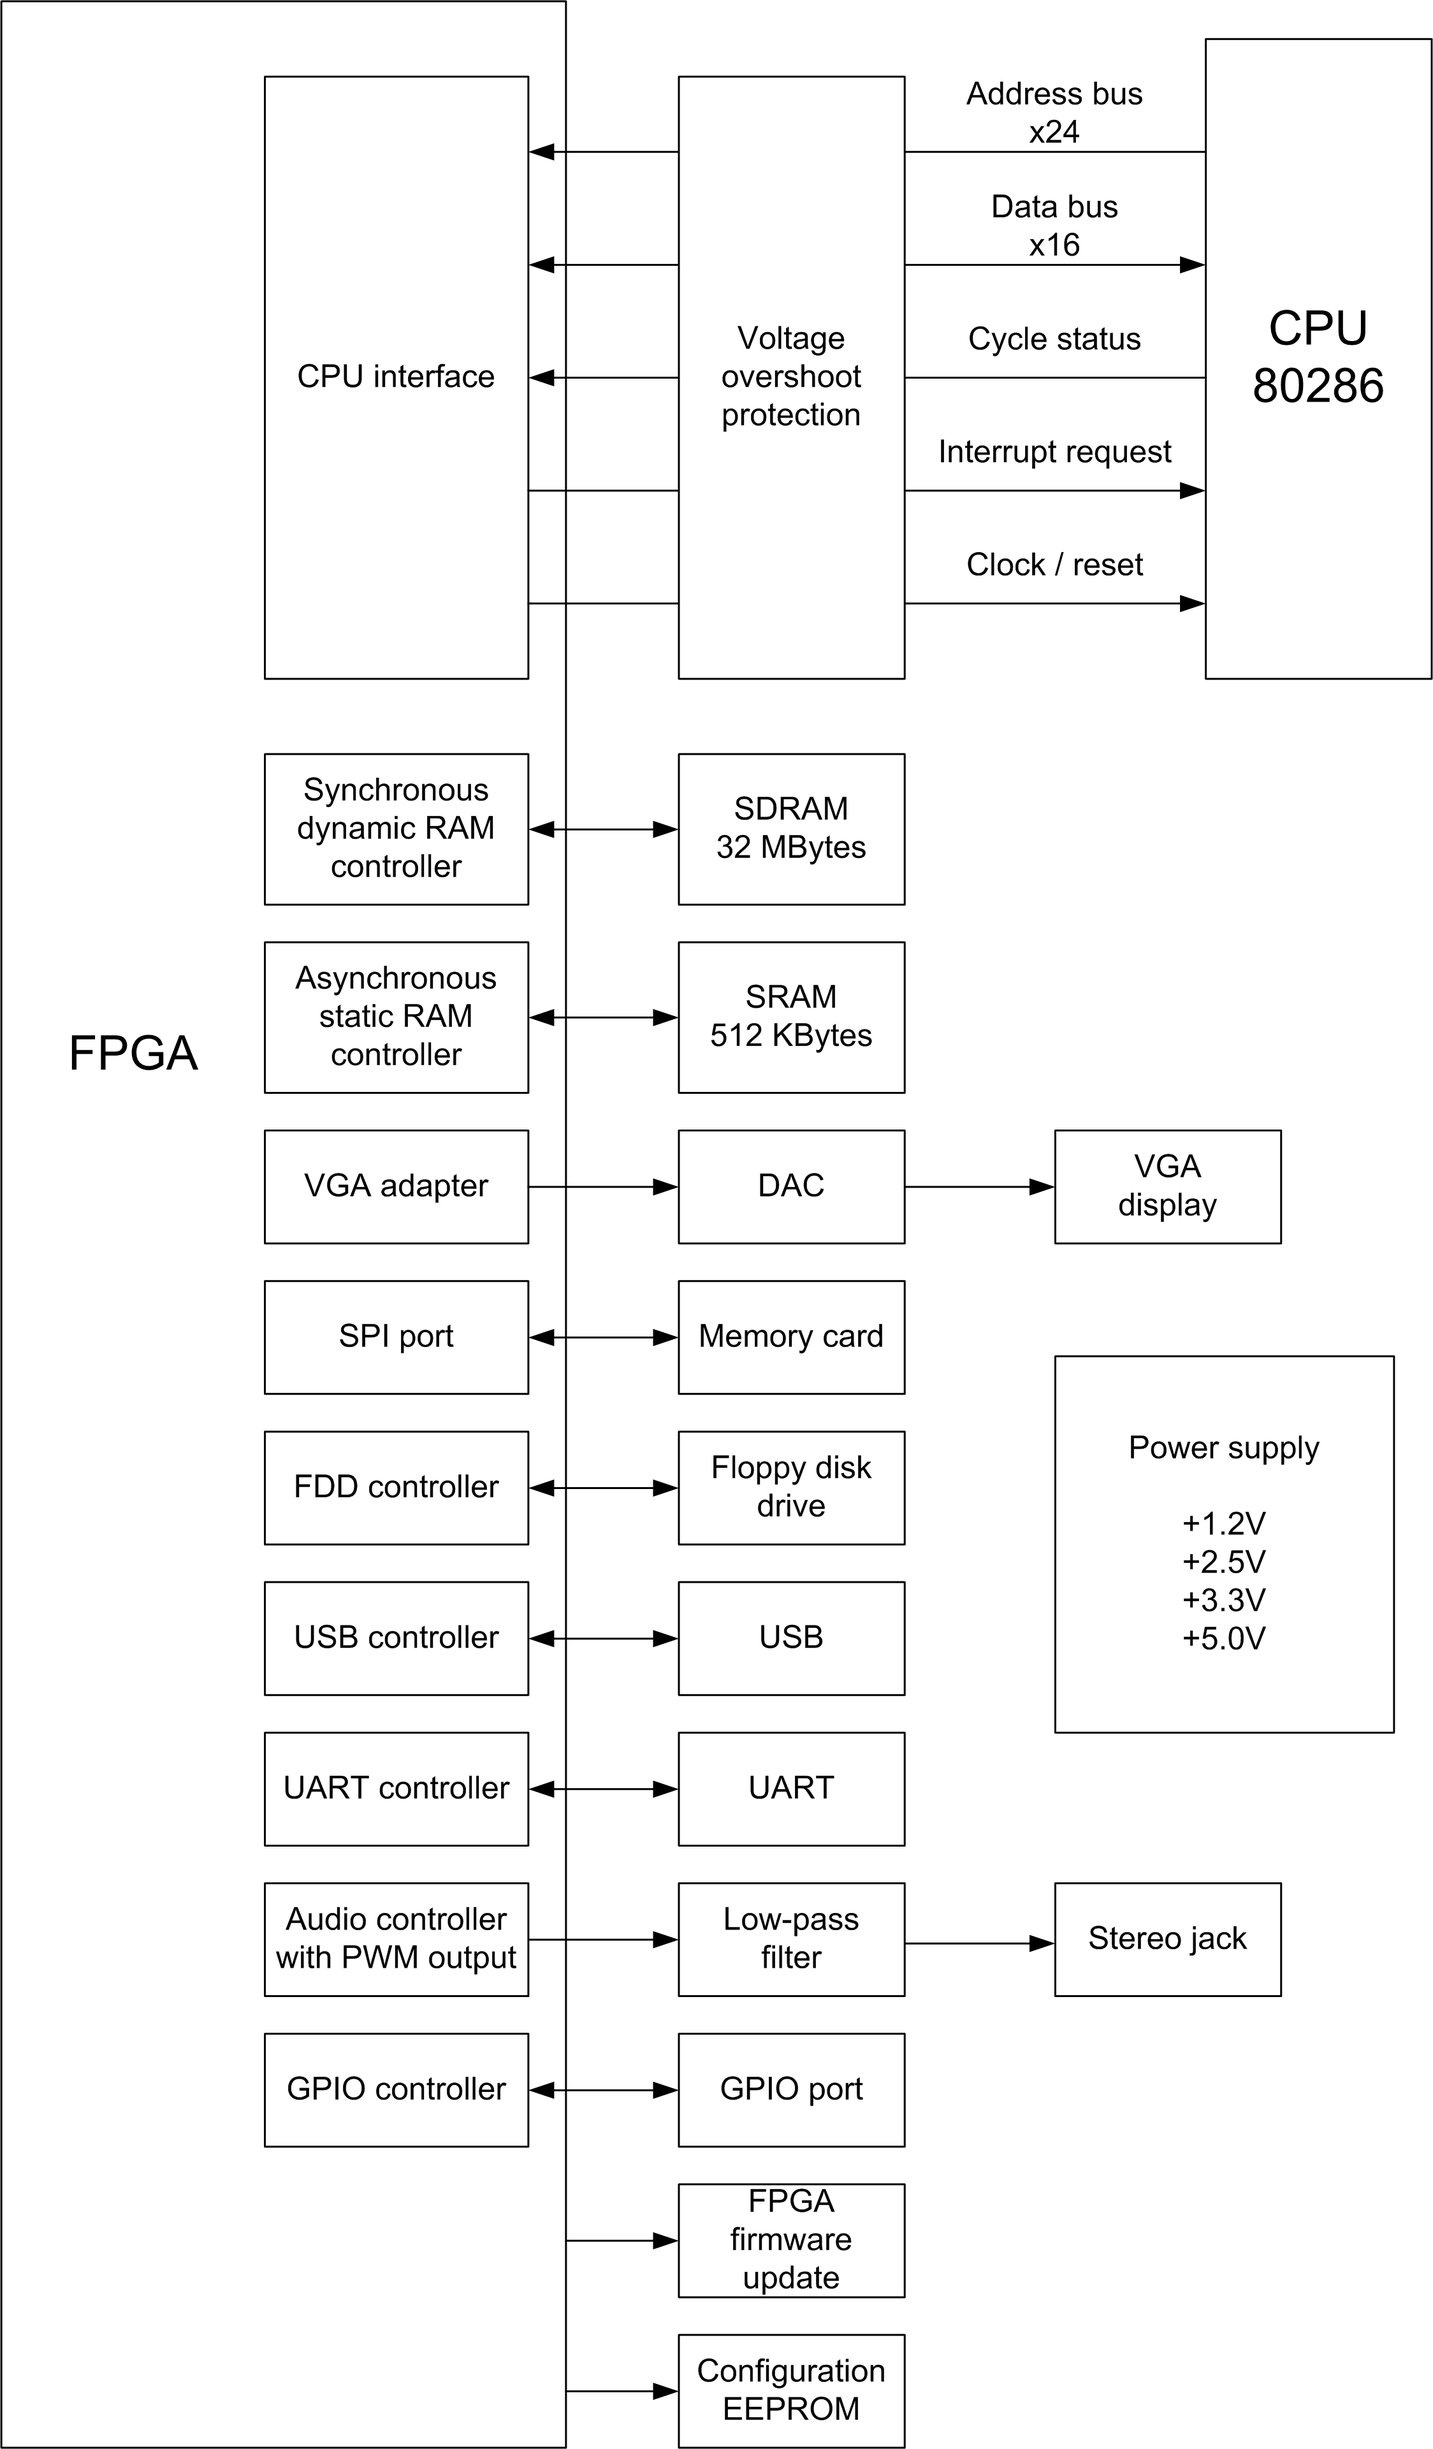
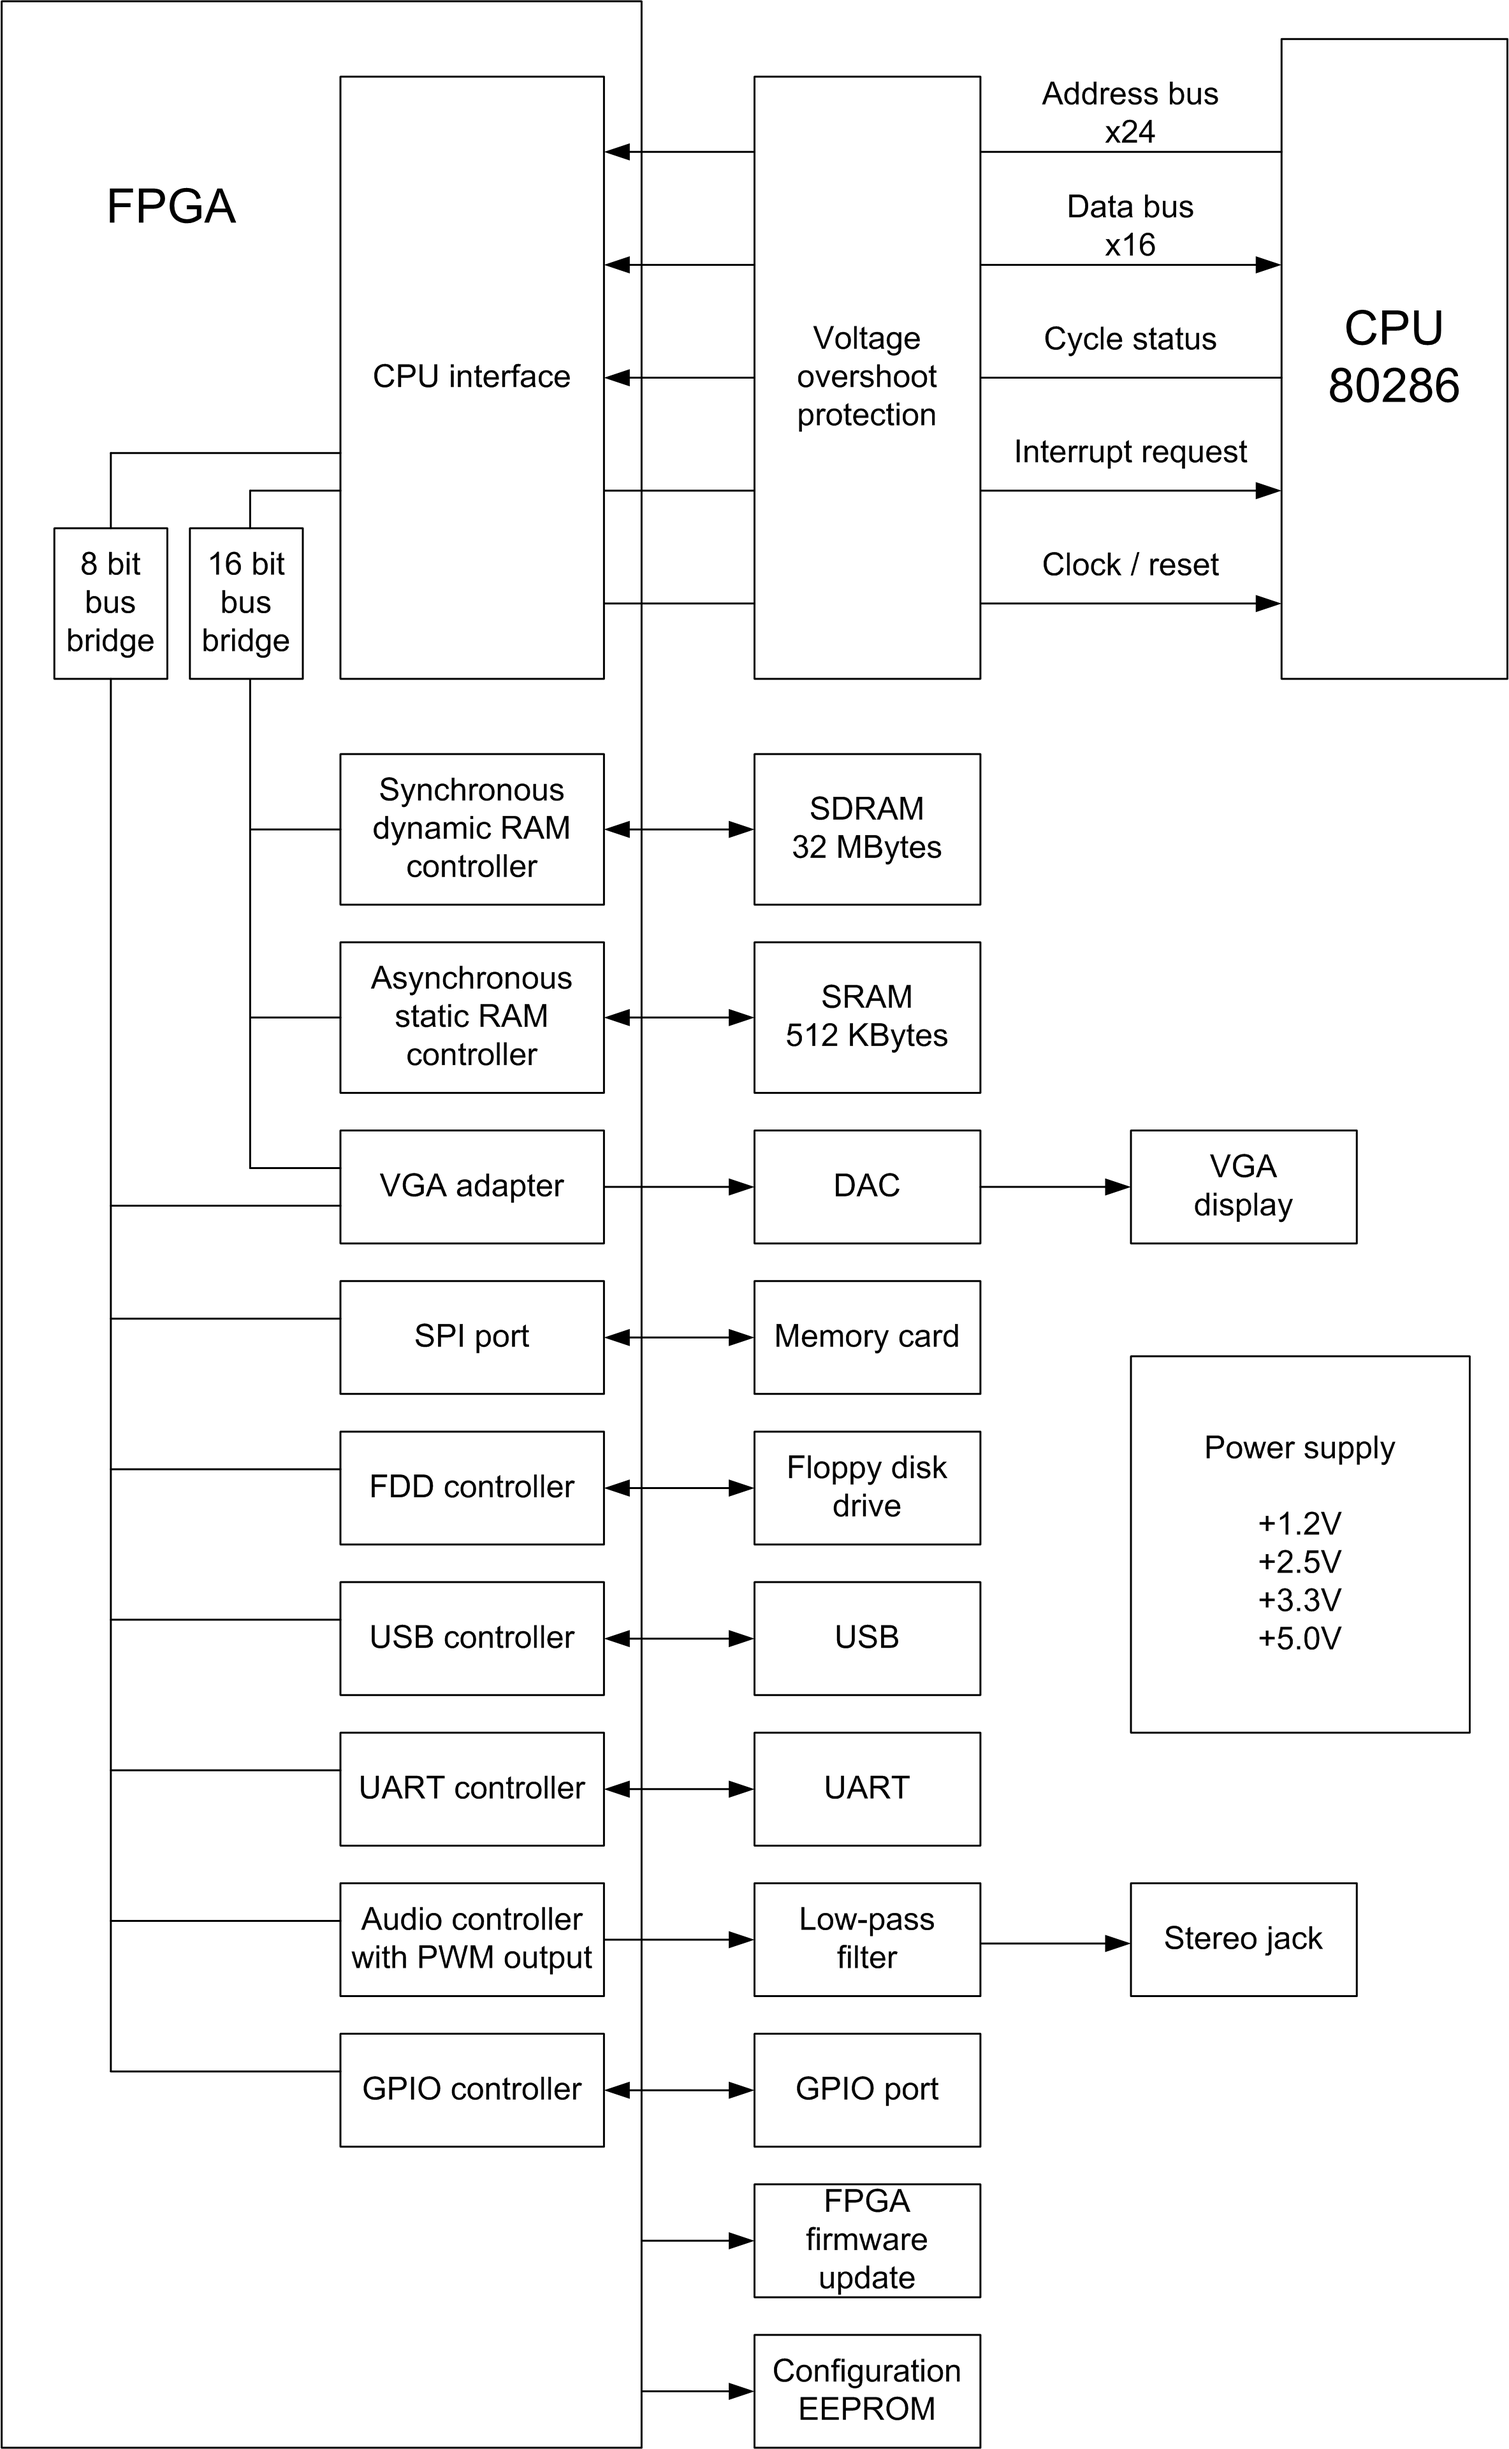
Add 8-bit I/O bus bridge

diff --git a/README.md b/README.md
@@ -3,17 +3,76 @@
 
 ### Tested software
 * MSDOS 3.3 / 4.0 / 6.22
+* Windows 2.0 in CGA mode
 
 ### Some tested games
 * Some old CGA games
 * Prince of Persia (CGA and VGA mode)
 
-### BIOS
+## How it works
+
+80286 CPU have 5 main transaction types: Memory Read, Memory Write, I/O Read, I/O Write, and an Interrupt Acknowledge.
+Each cycle is identified by combination of signals S0, S1, M/IO, COD/INTA appearing on the CPU's buses.
+
+When S0 and/or S1 goes low it is safe to fetch address and transaction type.
+
+### Memory read
+
+Appearing when the CPU is requesting code or reading memory. Identified by S0 = 1, S1 = 0, M/IO = 1.
+
+We need to redirect a "read" command to RAM controller or ROM BIOS. When done, we'll send the result to the CPU's data bus.
+
+### Memory write
+
+Appearing when the CPU is writing to a memory. Identified by S0 = 0, S1 = 1, M/IO = 1.
+
+We need to wait until S0 goes high and redirect a value from the CPU's data bus and a "write" command to RAM controller.
+
+### I/O read
+
+Appearing when the CPU is reading data from an external device. Identified by S0 = 1, S1 = 0, M/IO = 0.
+
+We need to redirect a "read" command to a selected device. When done, we'll send the result to the CPU's data bus.
+
+If the CPU is trying to read from a non-existing device it is better to return all one's like an original PC does.
+
+### I/O write
+
+Appearing when the CPU is writing to an external device. Identified by S0 = 0, S1 = 1, M/IO = 0.
+
+We need to wait until S0 goes high and redirect a value from the CPU's data bus and a "write" command to a selected device.
+
+### Interrupt Acknowledge
+
+Appearing when the CPU acknowledges an interrupt. Identified by S0 = 0, S1 = 0, M/IO = 0, COD/INTA = 0.
+
+We need to ask an interrupt controller what interrupt number is requested and send it to the CPU's data bus.
+
+The CPU (for some reason) is performing this cycle twice. Ok, we'll repeat the number one more time.
+
+### Ready signal
+
+Some devices like SDRAM or SPI bus controller are working much slower than the CPU so we need to "extend" read/write cycles.
+
+If the requested device cannot execute command immediately - it indicates "not ready" state by pulling CPU's "ready" signal to an inactive state.
+The CPU can wait for the tranaction to end indefinitely. The "ready" signal should be synchronized to the CPU's clock.
+
+A small program in the "Main.v" file performs all this actions.
+
+### System reset
+
+On power-up or by user's request (push the button) the CPU's reset procedure is performed.
+The CPU will do it's own initialization routines for about 50 clock cycles, and we should keep the clock running for this period.
+
+After that, the CPU will fill its instruction queue by performing 4 x 16 bit reads from address 0xFFFFF0. This address is a mirror for 0x0FFFF0 where the system BIOS lives.
+A very first command usually located in this address in the BIOS is a long jump to a BIOS's entry point, but you can place there any command you want - the CPU will execute it in an usual way.
+
+## BIOS
 Please use this compact BIOS:
 
 https://github.com/b-dmitry1/BIOS
 
-### PCB
+## PCB
 P-CAD 2006, Sprint Layout 6, and prepared for manufacturing Gerber files could be found in a "pcb" directory.
 
 Technology:
@@ -42,23 +101,24 @@ Simplified schematic diagram:
 
 ![top](pictures/sch1.png)
 
-### Compiling on Windows
+## Compiling on Windows
 
 Please use Altera Quartus II 13.0sp1 to compile the project.
 
-### Using disk images
+## Using disk images
 Please use disk images from my e86r project:
 
 https://github.com/b-dmitry1/e86r
 
 Just write a FreeDos or an empty image to a SD card, mount it and add your files using File Explorer.
 
-### Known problems
+## Known problems
 * USB support is in progress. Working USB module could be found in my "V188" project.
 * No return from protected mode due to absence of 70h port emulation.
 * VGA virtual resolution (panning) calculation may be wrong for some games.
+* VGA palette errors
 
-### Disclaimer
+## Disclaimer
 The project is provided "as is" without any warranty. Use at your own risk.
 
 Due to lack of time, I made the PCB without any schematic diagrams, sorry.
